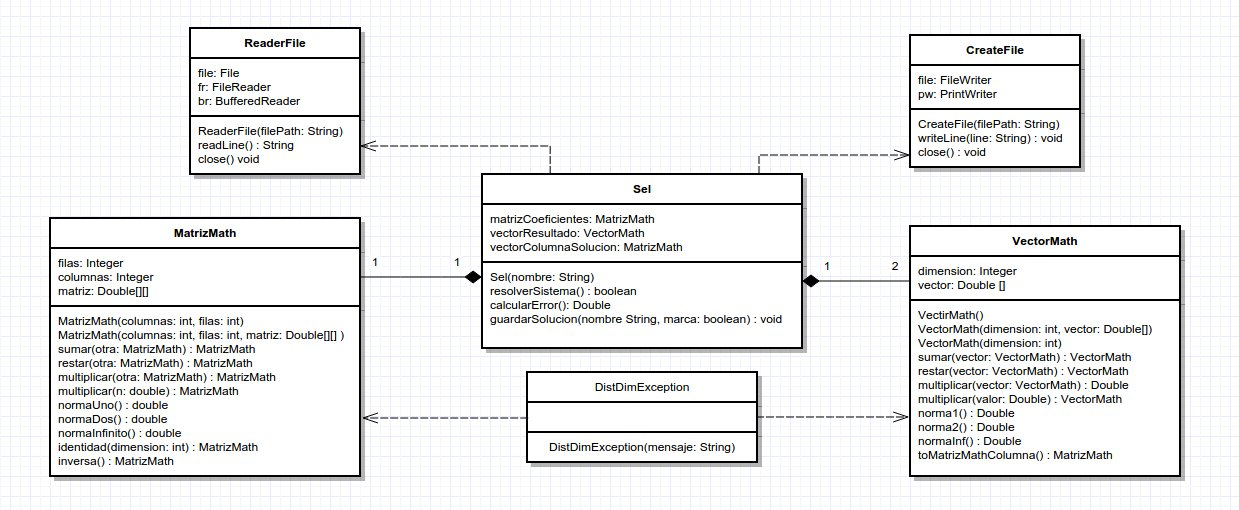
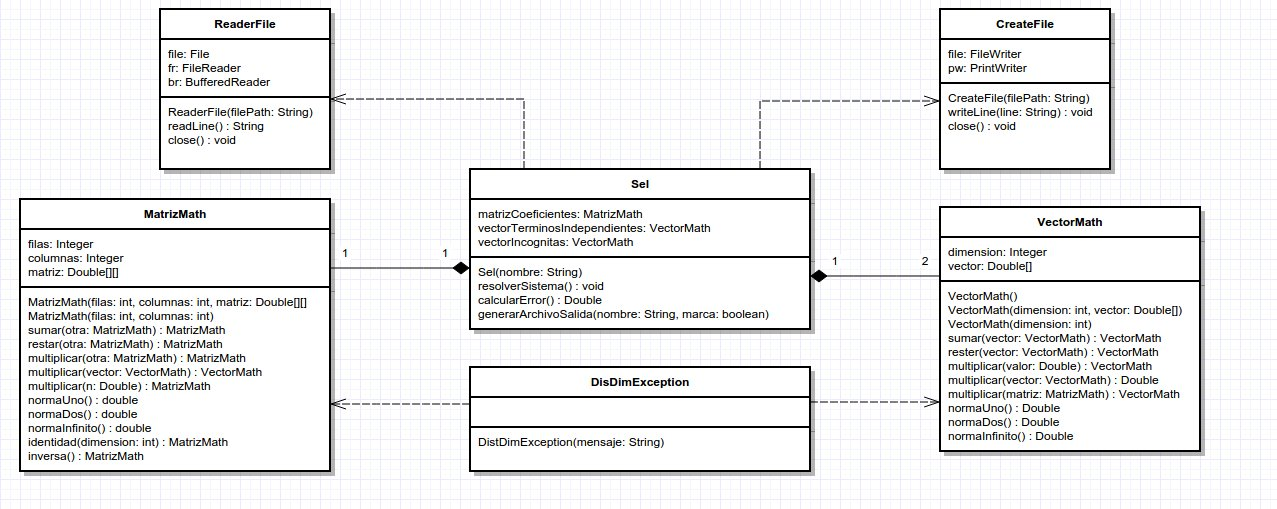
Diagrama de clase con nuevos metodos

Changed region(s): [[0.0, 0.0, 0.9814, 0.943], [0.1227, 0.0, 0.4294, 0.3536]]

diff --git a/TP2-Obligatorio/Sel/src/sel/MatrizMath.java b/TP2-Obligatorio/Sel/src/sel/MatrizMath.java
@@ -7,7 +7,7 @@ public class MatrizMath {
 	private Integer filas, columnas;
 	private Double[][] matriz;
 
-	public MatrizMath(int columnas, int filas, Double[][] matriz) {
+	public MatrizMath(int filas, int columnas, Double[][] matriz) {
 		this.columnas = columnas;
 		this.filas = filas;
 		this.matriz = matriz;
